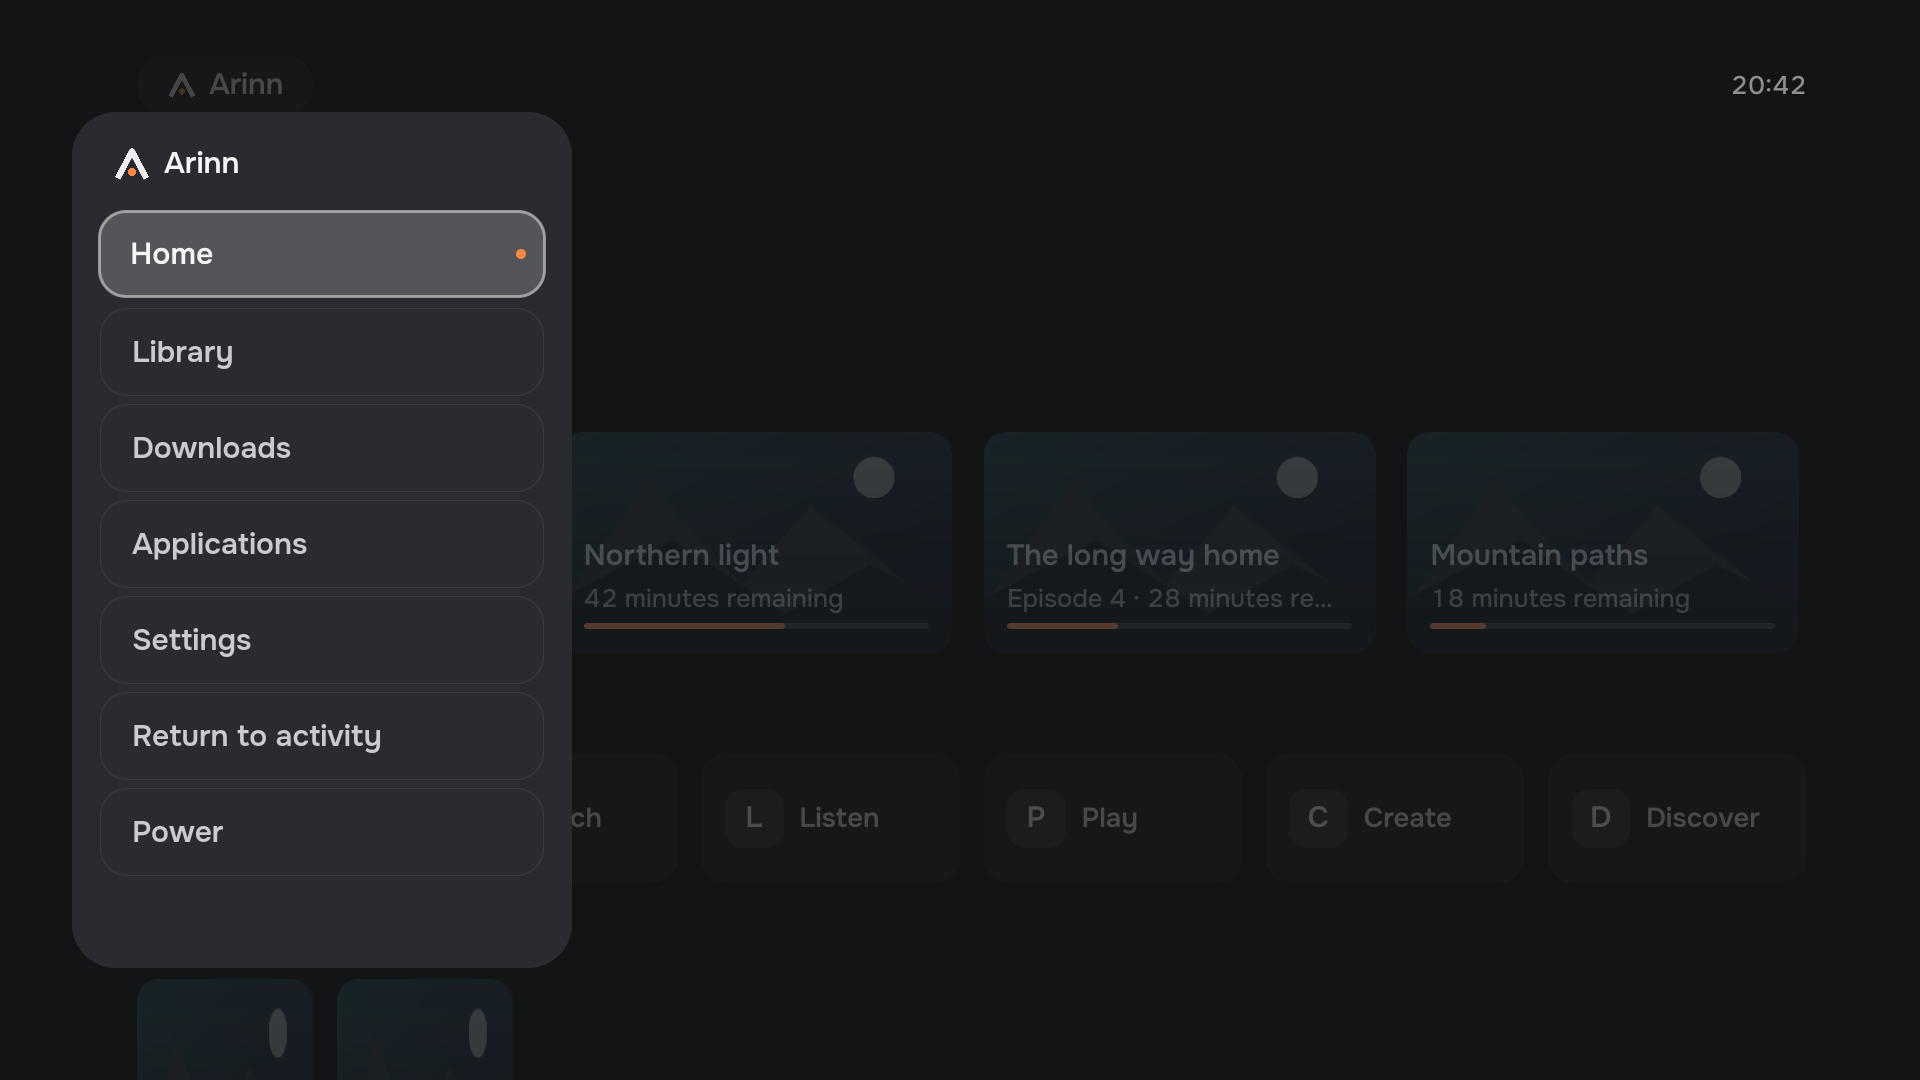
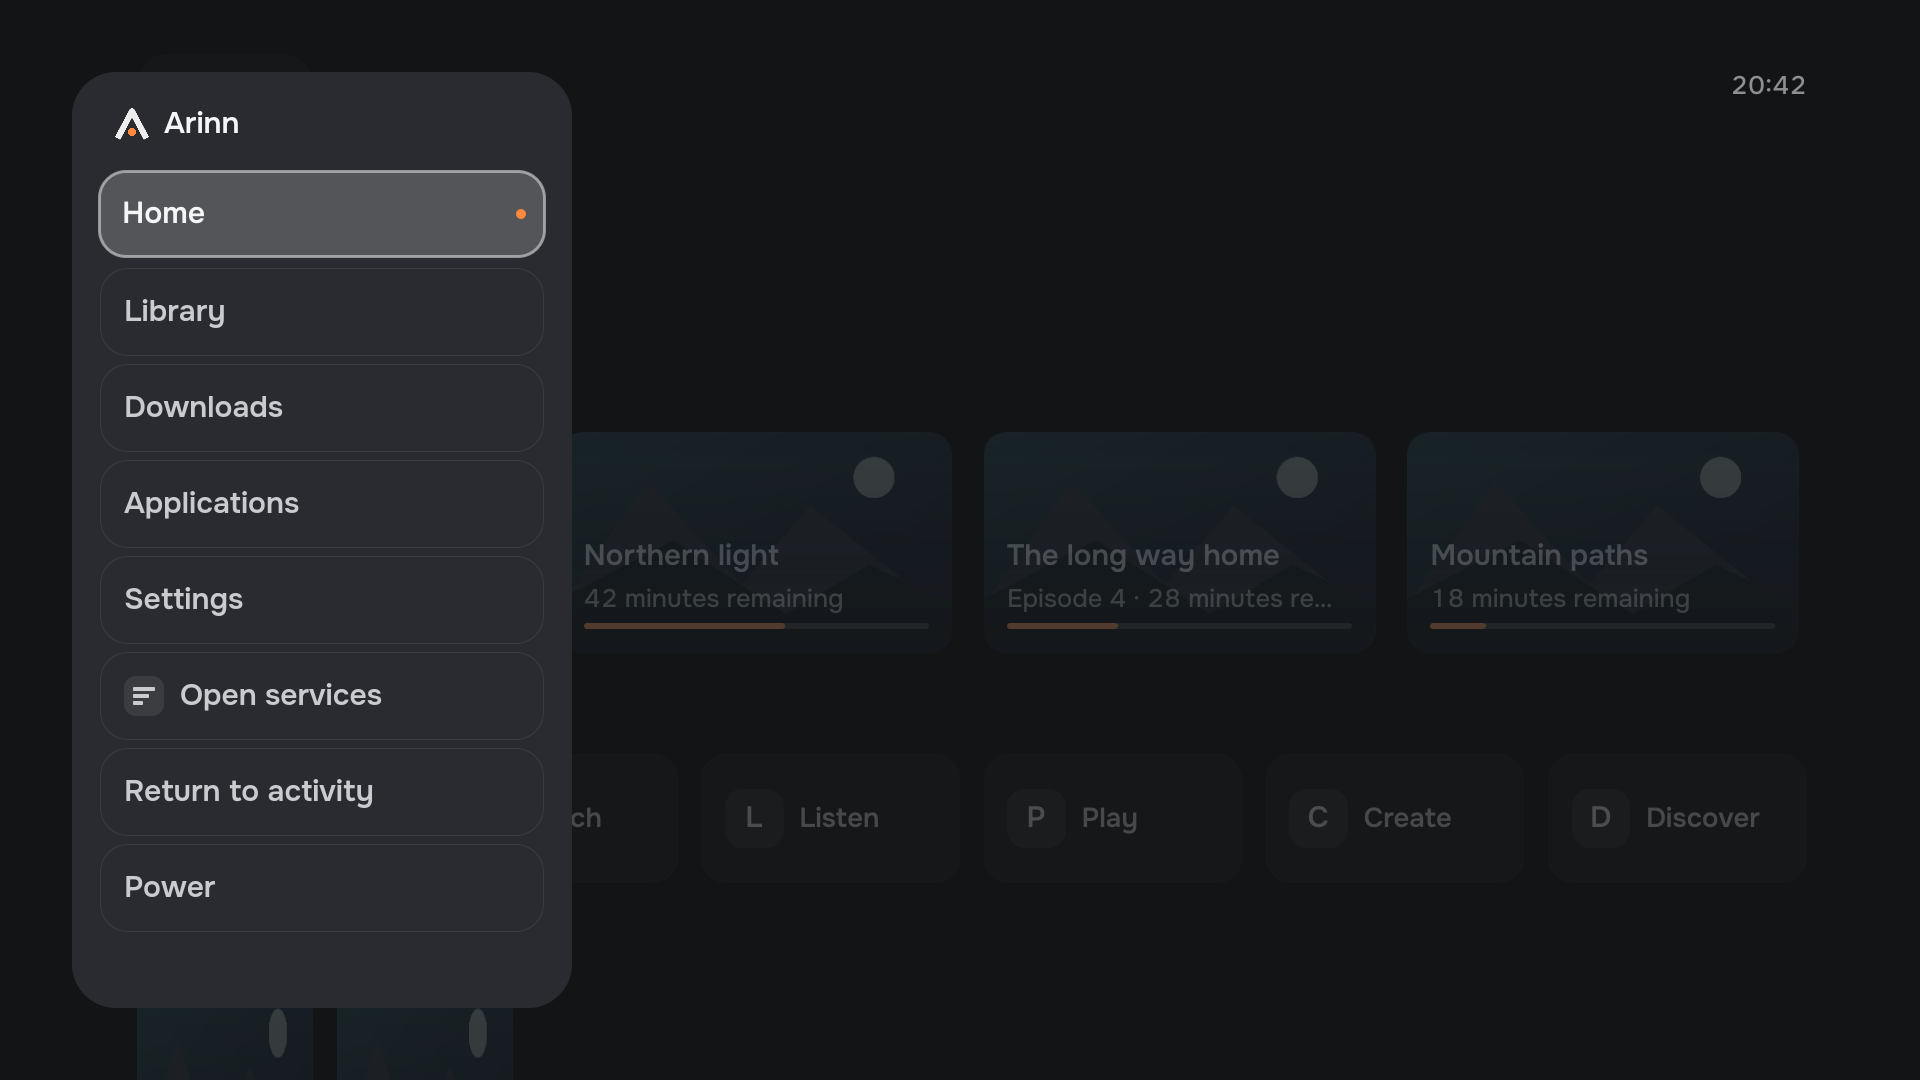
Refresh README screenshots of the wired shell
Home, navigation, Library, Applications, Open services and Now playing
are the screens the production shell mounts. Recapture them at 1920×1080
from the offscreen gallery so both READMEs match that shell.

diff --git a/apps/arinn-shell/gallery/HomeGallery.qml b/apps/arinn-shell/gallery/HomeGallery.qml
@@ -12,6 +12,7 @@ Window {
     color: Ui.Theme.background
     property string fixture: "populated"
     property bool showNavigation: false
+    property string previewScreen: "home"
     property string lastIntent: ""
     readonly property var content: [
         { id: "activity", title: "Workspace", subtitle: "Return to activity", running: true },
@@ -38,6 +39,18 @@ Window {
                 { id: "new1", title: "Open skies", subtitle: "2026", artwork: Qt.resolvedUrl("fixture-artwork.svg") },
                 { id: "new2", title: "Far away", subtitle: "2026", artwork: Qt.resolvedUrl("fixture-artwork.svg") }
             ] : []
+            applicationEntries: window.fixture === "populated" ? [
+                { id: "explore", title: "Explore", monogram: "E", group: "online" },
+                { id: "listen", title: "Listen", monogram: "L", group: "online" },
+                { id: "discover", title: "Discover", monogram: "D", group: "online" },
+                { id: "play", title: "Play", monogram: "P", group: "games" },
+                { id: "watch", title: "Watch", monogram: "W", group: "media" },
+                { id: "create", title: "Create", monogram: "C", group: "other" }
+            ] : []
+            runningEntries: window.fixture === "populated" ? [
+                { id: "workspace", title: "Workspace", monogram: "W", running: true }
+            ] : []
+            sectionDescription: window.previewScreen === "applications" ? qsTr("Choose an application or an open window.") : qsTr("This section is not connected in the Home preview.")
             returnActivityId: window.fixture === "populated" ? "activity" : ""
             homeState: window.fixture === "populated" ? "ready" : window.fixture
             statusTitle: ({empty: "Your Home starts here", loading: "Loading Home…", error: "Home could not be loaded", unavailable: "Home is unavailable"})[homeState] || ""
@@ -47,7 +60,13 @@ Window {
             onReturnRequested: window.lastIntent = "Return requested · fixture only"
             onRetryRequested: window.lastIntent = "Retry requested · fixture only"
             onPowerRequested: window.lastIntent = "Power is not connected in this preview"
-            Component.onCompleted: if (window.showNavigation) Qt.callLater(openNavigation)
+            Component.onCompleted: {
+                if (window.previewScreen === "applications") {
+                    screen = "applications";
+                    Qt.callLater(restoreScreen);
+                }
+                if (window.showNavigation) Qt.callLater(openNavigation);
+            }
         }
         Rectangle {
             x: 1000; y: 1000; width: 824; height: 64; radius: 32

diff --git a/apps/arinn-shell/gallery/LibraryGallery.qml b/apps/arinn-shell/gallery/LibraryGallery.qml
@@ -1,0 +1,33 @@
+// SPDX-FileCopyrightText: 2026 Arinn contributors
+// SPDX-License-Identifier: GPL-3.0-or-later
+
+import QtQuick
+import QtQuick.Window
+import "../ui" as Ui
+import "../ui/screens/library" as Library
+
+Window {
+    width: 1920; height: 1080; visible: true
+    title: "Arinn — Library preview"
+    color: Ui.Theme.background
+    // noArt matches the shell: the catalogue discards poster ids and draws a plate.
+    Library.LibraryView {
+        anchors.fill: parent
+        libraryState: "ready"
+        tabs: [
+            { id: "films", title: qsTr("Films") },
+            { id: "series", title: qsTr("Series") }
+        ]
+        entries: [
+            { id: "north", tabId: "films", title: "Northern light", year: "2019", kind: "film", noArt: true },
+            { id: "quiet", tabId: "films", title: "Quiet places", year: "2020", kind: "film", noArt: true },
+            { id: "paths", tabId: "films", title: "Mountain paths", year: "2018", kind: "film", noArt: true },
+            { id: "skies", tabId: "films", title: "Open skies", year: "2022", kind: "film", noArt: true },
+            { id: "far", tabId: "films", title: "Far away", year: "2016", kind: "film", noArt: true },
+            { id: "water", tabId: "films", title: "Still water", year: "2021", kind: "film", noArt: true },
+            { id: "late", tabId: "films", title: "Late light", year: "2017", kind: "film", noArt: true },
+            { id: "low", tabId: "films", title: "Low country", year: "2015", kind: "film", noArt: true },
+            { id: "serial", tabId: "series", title: "The long way home", year: "2021", kind: "series", noArt: true }
+        ]
+    }
+}

diff --git a/apps/arinn-shell/gallery/BrowserGallery.qml b/apps/arinn-shell/gallery/BrowserGallery.qml
@@ -1,0 +1,42 @@
+// SPDX-FileCopyrightText: 2026 Arinn contributors
+// SPDX-License-Identifier: GPL-3.0-or-later
+
+import QtQuick
+import QtQuick.Window
+import "../ui" as Ui
+import "../ui/screens/browser" as Browser
+
+Window {
+    id: window
+    width: 1920; height: 1080; visible: true
+    title: "Arinn — Open services preview"
+    color: Ui.Theme.background
+
+    function freezeClock(item) {
+        if (!item)
+            return false;
+        if (item.objectName === "browserClock") {
+            item.text = "20:42";
+            return true;
+        }
+        const kids = item.visibleChildren || [];
+        for (let i = 0; i < kids.length; ++i)
+            if (freezeClock(kids[i]))
+                return true;
+        return false;
+    }
+
+    Browser.BrowserView {
+        id: browser
+        anchors.fill: parent
+        tabs: [
+            { id: "north", windowId: "one", title: "Northern light", url: "north", active: true, audible: false },
+            { id: "quiet", windowId: "one", title: "Quiet places", url: "quiet", active: false, audible: true },
+            { id: "paths", windowId: "one", title: "Mountain paths", url: "paths", active: false, audible: false }
+        ]
+    }
+    Timer {
+        interval: 400; running: true
+        onTriggered: window.freezeClock(browser)
+    }
+}

diff --git a/apps/arinn-shell/gallery/SessionGallery.qml b/apps/arinn-shell/gallery/SessionGallery.qml
@@ -1,0 +1,24 @@
+// SPDX-FileCopyrightText: 2026 Arinn contributors
+// SPDX-License-Identifier: GPL-3.0-or-later
+
+import QtQuick
+import QtQuick.Window
+import "../ui" as Ui
+import "../ui/screens/session" as Session
+
+Window {
+    width: 1920; height: 1080; visible: true
+    title: "Arinn — Now playing preview"
+    color: Ui.Theme.background
+    Session.SessionView {
+        anchors.fill: parent
+        sessionState: "ready"
+        title: "Northern light"
+        subtitle: "42 minutes remaining"
+        playbackState: "playing"
+        // 2:04:00 of 2:46:00, so 42 minutes remain. Microseconds.
+        durationUs: 9960000000
+        positionUs: 7440000000
+        availableActions: ["previous", "playPause", "next", "seek", "stop"]
+    }
+}

diff --git a/apps/arinn-shell/gallery/main.cpp b/apps/arinn-shell/gallery/main.cpp
@@ -12,12 +12,21 @@ int main(int argc, char **argv) {
   QQmlApplicationEngine engine;
   const auto args = app.arguments();
   const auto fixture = args.indexOf("--state");
-  if (args.contains("--home")) {
+  QString qml = QStringLiteral("qrc:/gallery/Gallery.qml");
+  if (args.contains("--browser")) {
+    qml = QStringLiteral("qrc:/gallery/BrowserGallery.qml");
+  } else if (args.contains("--now-playing")) {
+    qml = QStringLiteral("qrc:/gallery/SessionGallery.qml");
+  } else if (args.contains("--library")) {
+    qml = QStringLiteral("qrc:/gallery/LibraryGallery.qml");
+  } else if (args.contains("--home") || args.contains("--applications")) {
+    qml = QStringLiteral("qrc:/gallery/HomeGallery.qml");
     engine.setInitialProperties({
         {"fixture", fixture >= 0 && fixture + 1 < args.size() ? args.at(fixture + 1) : QString("populated")},
-        {"showNavigation", args.contains("--nav")}});
+        {"showNavigation", args.contains("--nav")},
+        {"previewScreen", args.contains("--applications") ? QString("applications") : QString("home")}});
   }
-  engine.load(QUrl(args.contains("--home") ? "qrc:/gallery/HomeGallery.qml" : "qrc:/gallery/Gallery.qml"));
+  engine.load(QUrl(qml));
   if (engine.rootObjects().isEmpty())
     return 1;
   auto window = qobject_cast<QQuickWindow *>(engine.rootObjects().first());

diff --git a/docs/design/current-ui/README.md b/docs/design/current-ui/README.md
@@ -3,13 +3,15 @@
 
 # Current Qt interface captures
 
-Captured on 2026-09-28 at 1920 × 1080 using Qt 6.11.2, the offscreen platform
-and software Qt Quick renderer. These images show the shared Home/navigation
-components after the Arinn brand-mark fix, not the historical HTML prototype.
-The gallery uses fixed fictional content, original placeholder artwork and neutral
-application monograms. It does not connect to a daemon or control the desktop.
-Favorites, media and service entries here are fixture data, not evidence of
-completed integrations. See [UI status](../../architecture/ui-components.md).
+Captured on 2026-09-30 at 1920 × 1080 using Qt 6.11.2, the offscreen platform
+and software Qt Quick renderer. These images show the screens the production
+shell actually mounts: Home, navigation, Library, Applications, Open services
+and Now playing. They are not the historical HTML prototype. The gallery uses
+fixed fictional content, original placeholder artwork and neutral application
+monograms. Library plates are the same generic plates the shell draws, because
+the catalogue does not supply poster images. It does not connect to a daemon
+or control the desktop. Favorites, media and service entries here are fixture
+data, not evidence of completed integrations. See [UI status](../../architecture/ui-components.md).
 
 The mark is the unchanged [approved SVG](../handoff/assets/arinn-mark.svg),
 embedded as a Qt resource. The screenshots are documentation under CC-BY-SA-4.0,
@@ -26,7 +28,20 @@ QT_QPA_PLATFORM=offscreen QT_QUICK_BACKEND=software \
 QT_QPA_PLATFORM=offscreen QT_QUICK_BACKEND=software \
   build/apps/arinn-shell/arinn-ui-gallery --home --nav \
   --capture docs/design/current-ui/navigation.png
+QT_QPA_PLATFORM=offscreen QT_QUICK_BACKEND=software \
+  build/apps/arinn-shell/arinn-ui-gallery --library \
+  --capture docs/design/current-ui/library.png
+QT_QPA_PLATFORM=offscreen QT_QUICK_BACKEND=software \
+  build/apps/arinn-shell/arinn-ui-gallery --applications \
+  --capture docs/design/current-ui/applications.png
+QT_QPA_PLATFORM=offscreen QT_QUICK_BACKEND=software \
+  build/apps/arinn-shell/arinn-ui-gallery --browser \
+  --capture docs/design/current-ui/open-services.png
+QT_QPA_PLATFORM=offscreen QT_QUICK_BACKEND=software \
+  build/apps/arinn-shell/arinn-ui-gallery --now-playing \
+  --capture docs/design/current-ui/now-playing.png
 ```
 
-Inspect both images before committing regenerated captures. Historical handoff
-and archive screenshots remain unchanged.
+`--now-playing` is the flag name because Qt treats `--session` as its own
+session-restore option. Inspect the images before committing regenerated
+captures. Historical handoff and archive screenshots remain unchanged.

diff --git a/README.md b/README.md
@@ -42,7 +42,7 @@ Every integration is a separate plugin process talking to a small core over D-Bu
 
 ## Interface preview
 
-These are screenshots of the **current Qt/QML interface**, rendered by the development gallery with fictional fixture data, placeholder artwork and neutral application icons. Home and navigation share their components with the production shell. Media, favorites and service integrations shown by the fixtures are not completed integrations. See the [UI implementation status](docs/architecture/ui-components.md).
+These are screenshots of the **current Qt/QML interface**, rendered by the development gallery with fictional fixture data, placeholder artwork and neutral application icons. Home, navigation, Library, Applications, Open services and Now playing use the same components as the production shell. Media, favorites and service integrations shown by the fixtures are not completed integrations. See the [UI implementation status](docs/architecture/ui-components.md).
 
 **Home** — the Arinn brand mark, Continue cards and application tiles, with visible remote-control focus.
 
@@ -54,6 +54,42 @@ These are screenshots of the **current Qt/QML interface**, rendered by the devel
 **Navigation** — the shared brand lockup and section menu over a dimmed Home, with the current selection highlighted.
 
 ![Current Arinn Qt navigation with the brand mark and Home selected](docs/design/current-ui/navigation.png)
+
+</details>
+
+<details>
+<summary>Library screenshot</summary>
+
+**Library** — films and series on placeholder plates, with the current catalogue tab highlighted.
+
+![Current Arinn Qt Library with placeholder film plates and Films selected](docs/design/current-ui/library.png)
+
+</details>
+
+<details>
+<summary>Applications screenshot</summary>
+
+**Applications** — tiles grouped into Online, Games, Media and Other, with remote-control focus.
+
+![Current Arinn Qt Applications with grouped tiles and Online focused](docs/design/current-ui/applications.png)
+
+</details>
+
+<details>
+<summary>Open services screenshot</summary>
+
+**Open services** — open pages, with the on-screen page marked.
+
+![Current Arinn Qt Open services list with the on-screen page focused](docs/design/current-ui/open-services.png)
+
+</details>
+
+<details>
+<summary>Now playing screenshot</summary>
+
+**Now playing** — the current media session, with progress and transport controls.
+
+![Current Arinn Qt Now playing screen with progress and transport controls](docs/design/current-ui/now-playing.png)
 
 </details>
 

diff --git a/changes/changed/readme-shell-screenshots.md b/changes/changed/readme-shell-screenshots.md
@@ -1,0 +1,4 @@
+<!-- SPDX-FileCopyrightText: 2026 Arinn contributors -->
+<!-- SPDX-License-Identifier: CC-BY-SA-4.0 -->
+
+- Refresh the English and Russian README previews with the shell screens that are wired today: Home, navigation, Library, Applications, Open services and Now playing.
